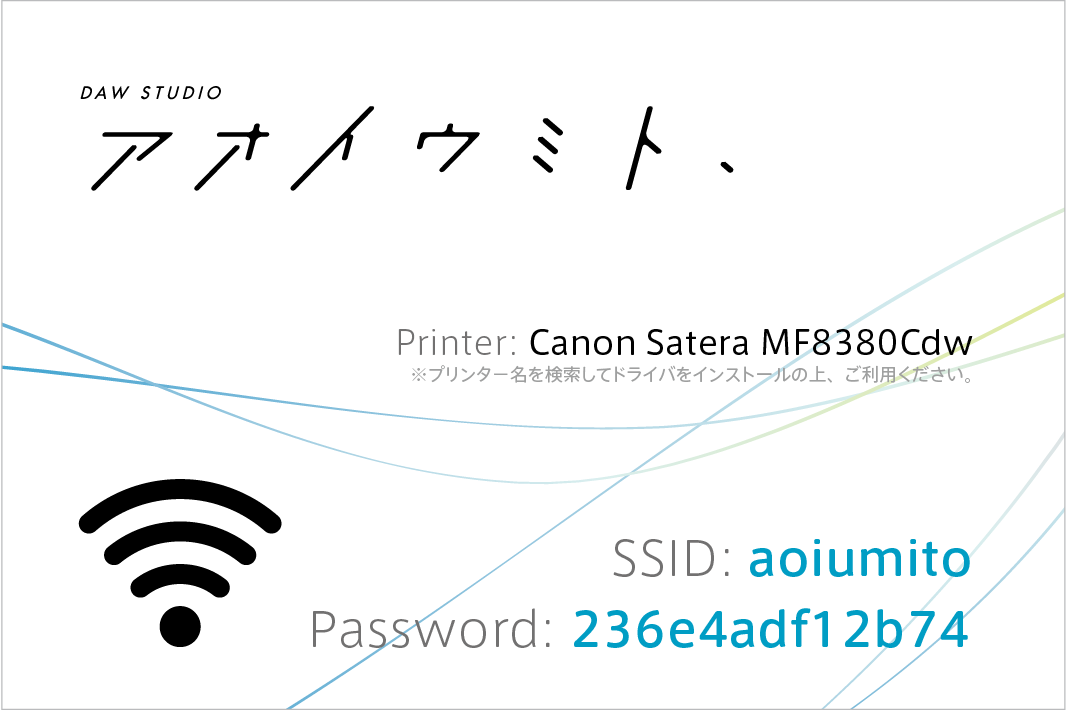
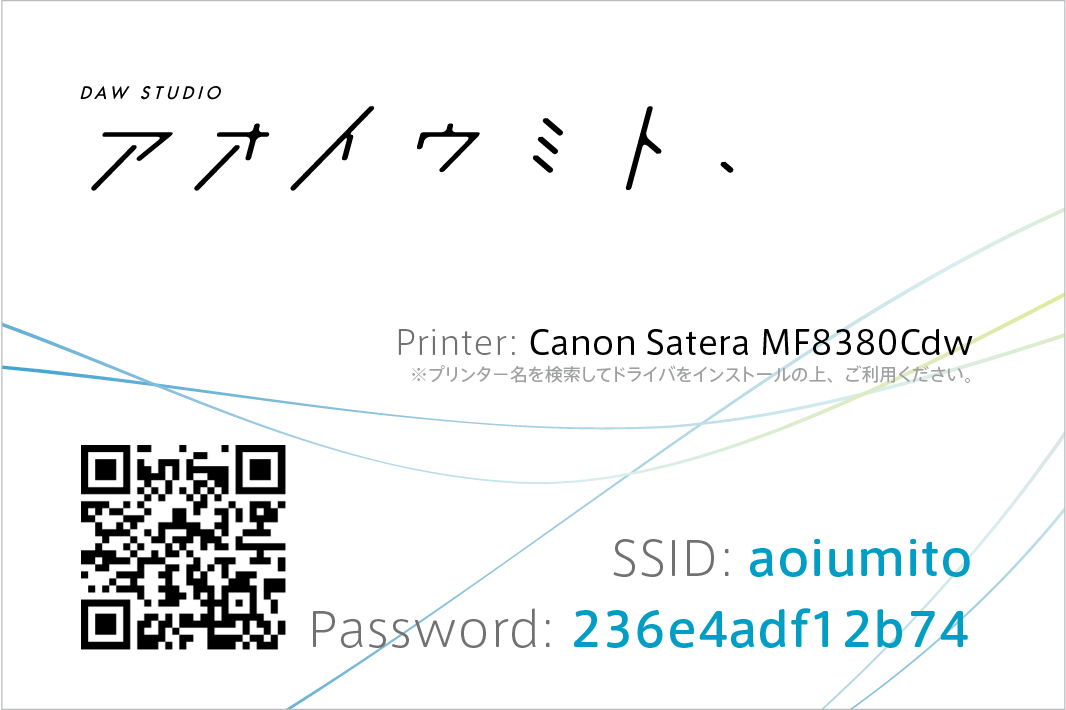
manual equipment更新
wifi passのバーコード追加

Changed region(s): [[0.0619, 0.6197, 0.2786, 0.9296]]

diff --git a/manual.html b/manual.html
@@ -18,7 +18,7 @@
 
 <body>
 <main class="wrapper">
-<h2>Owner's Manual<span class="tag">2020.5.24</span></h2>
+<h2>Owner's Manual<span class="tag">2020.6.7</span></h2>
 
 <section> <img src="assets/images/manual/wifi_pass.png"> </section>
     
@@ -47,9 +47,21 @@
     
     
     <img src="assets/images/manual/3step_guide.png">
-
 </section>
 
+<section>
+  <h3>（）Bluetooth接続</h3>
+    <p>オプショナルですが、MacのKeyboardとTrackPadは、置いています。Bluetoothで接続ください。<br>
+        <img src="assets/images/manual/AOIUMITO_Bluetooth.png">
+</p>
+    
+    
+    <img src="assets/images/manual/3step_guide.png">
+</section>
+    
+    
+    
+    
 <article>
     <h3>FAQs</h3>
     

diff --git a/equipmentlist.html b/equipmentlist.html
@@ -18,7 +18,7 @@
 
 <body>
 <div class="wrapper">
-  <h2>Equipment List<span class="tag">2020.5.31</span></h2>
+  <h2>Equipment List<span class="tag">2020.6.7</span></h2>
   <section>
     <h3>Audio Interface</h3>
     <ul>
@@ -89,8 +89,10 @@
     <h3>PC</h3>
     <h5>iOS</h5>
     <ul>
-      <li>iPad Pro 12.9</li>
-    </ul>
+      <li>Apple iPad Pro 12.9</li>
+      <li>Apple Keyboard</li>
+      <li>Apple TrackPad<li>
+      </ul>
     <h5>Free Wifi</h5>
     <ul>
       <li>SSID: aoiumito</li>
